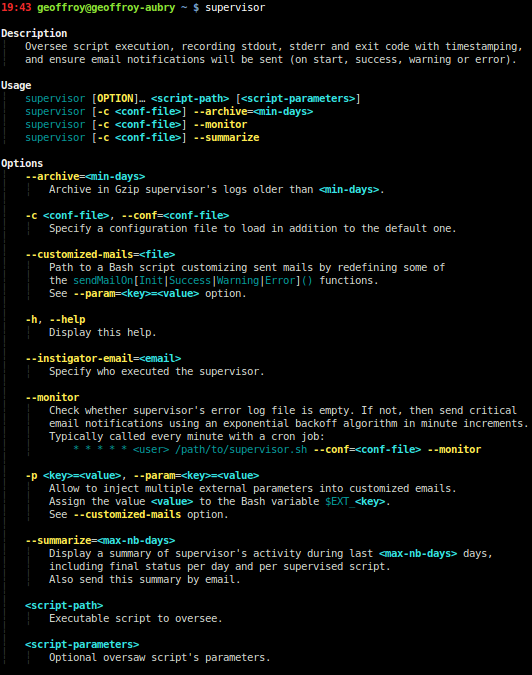
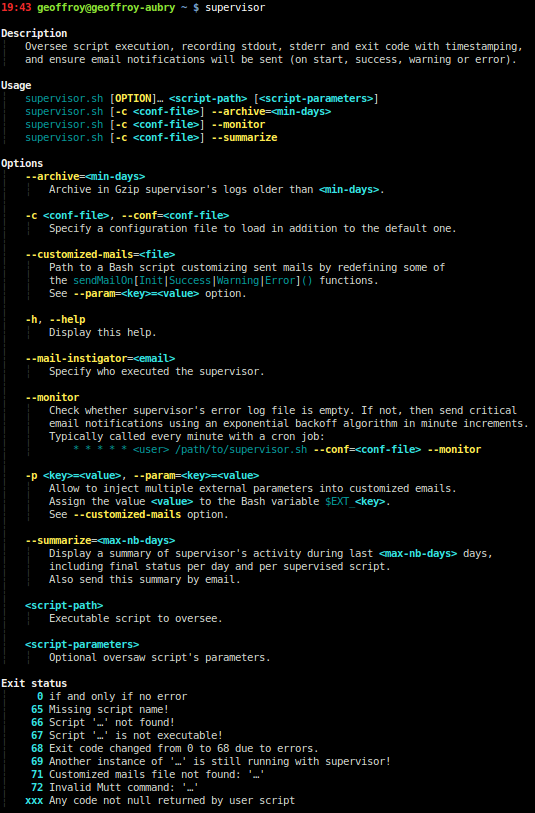
Add exit status in CLI help.

Changed region(s): [[0.0, 0.0, 0.9925, 0.9956]]

diff --git a/README.md b/README.md
@@ -153,6 +153,17 @@ $ supervisor.sh [-h|--help]
         <script-parameters>
             Optional oversaw script's parameters.
 
+    Exit status
+          0 if and only if no error
+         65 Missing script name!
+         66 Script '…' not found!
+         67 Script '…' is not executable!
+         68 Exit code changed from 0 to 68 due to errors.
+         69 Another instance of '…' is still running with supervisor!
+         71 Customized mails file not found: '…'
+         72 Invalid Mutt command: '…'
+        xxx Any code not null returned by user script
+
 ### Exit status
 
 List of exit status:
